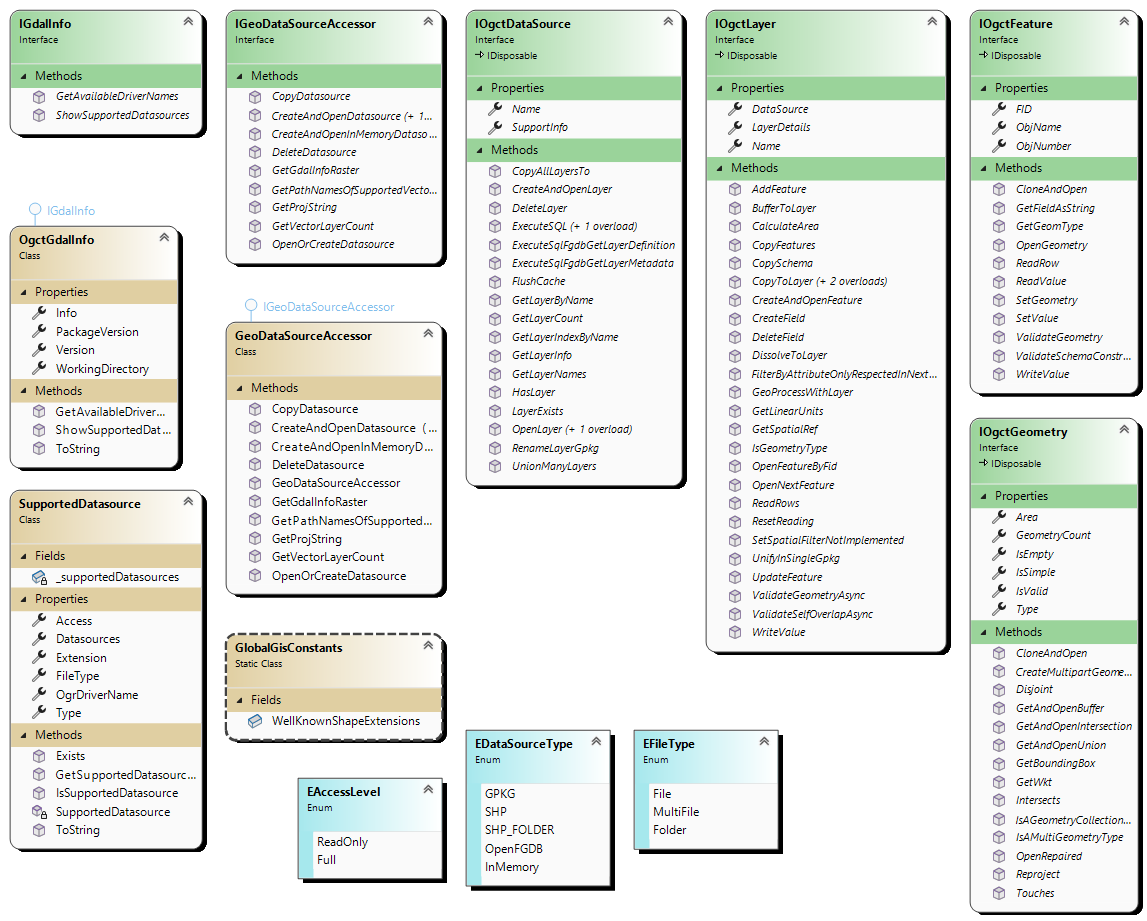
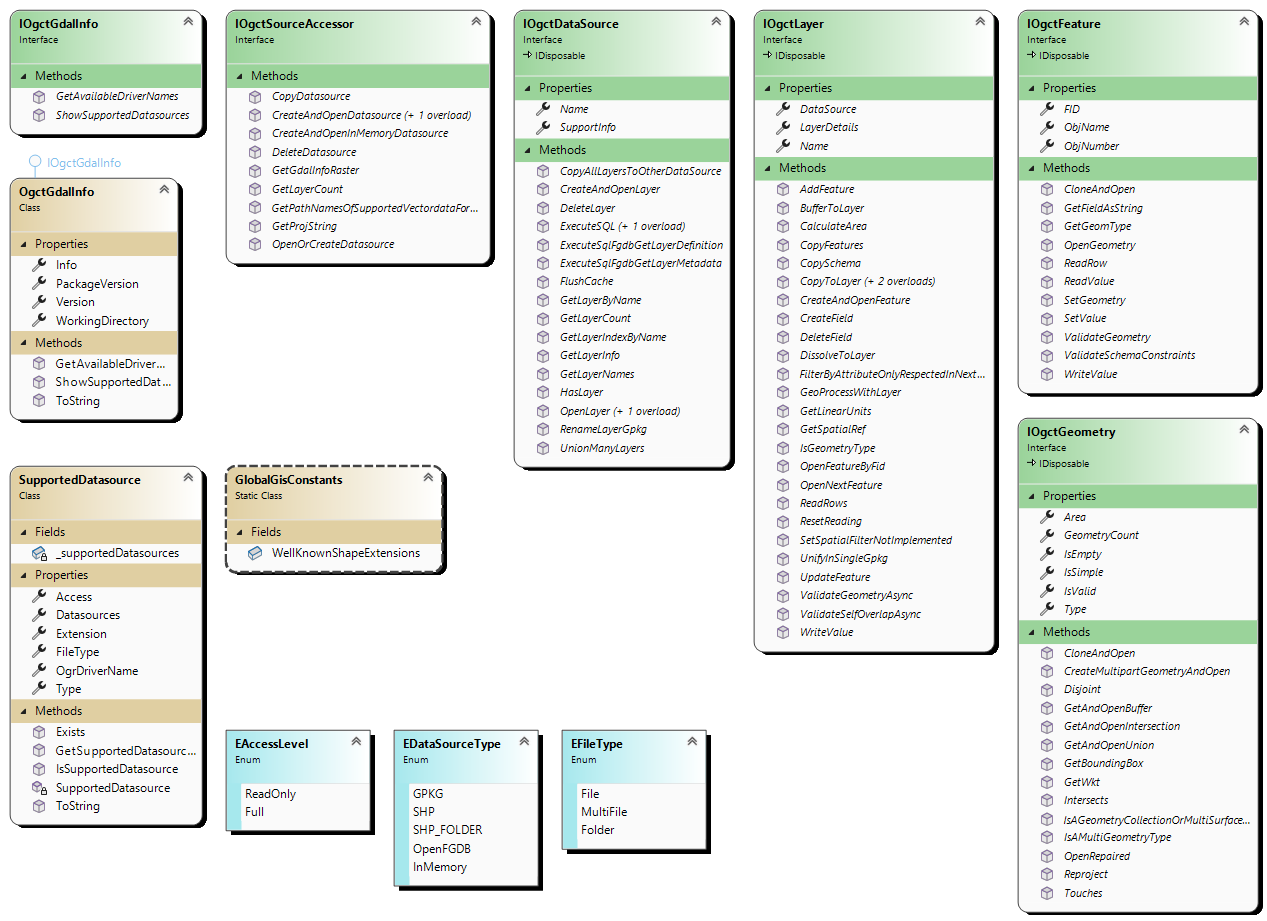
update diagrams

Changed region(s): [[0.0, 0.0, 1.0, 1.0]]

diff --git a/GdalToolsLib/Common/OgctGdalInfo.cs b/GdalToolsLib/Common/OgctGdalInfo.cs
@@ -7,7 +7,7 @@ using OSGeo.OGR;
 
 namespace GdalToolsLib.Common;
 
-public class OgctGdalInfo : IGdalInfo
+public class OgctGdalInfo : IOgctGdalInfo
 {
     public string PackageVersion { get; } = Assembly.GetAssembly(typeof(Ogr))!
         .GetCustomAttribute<AssemblyInformationalVersionAttribute>()!

diff --git a/GdalToolsLib/Common/IOgctGdalInfo.cs b/GdalToolsLib/Common/IOgctGdalInfo.cs
@@ -2,7 +2,7 @@
 
 namespace GdalToolsLib.Common;
 
-public interface IGdalInfo
+public interface IOgctGdalInfo
 {
     List<string> ShowSupportedDatasources();
 
